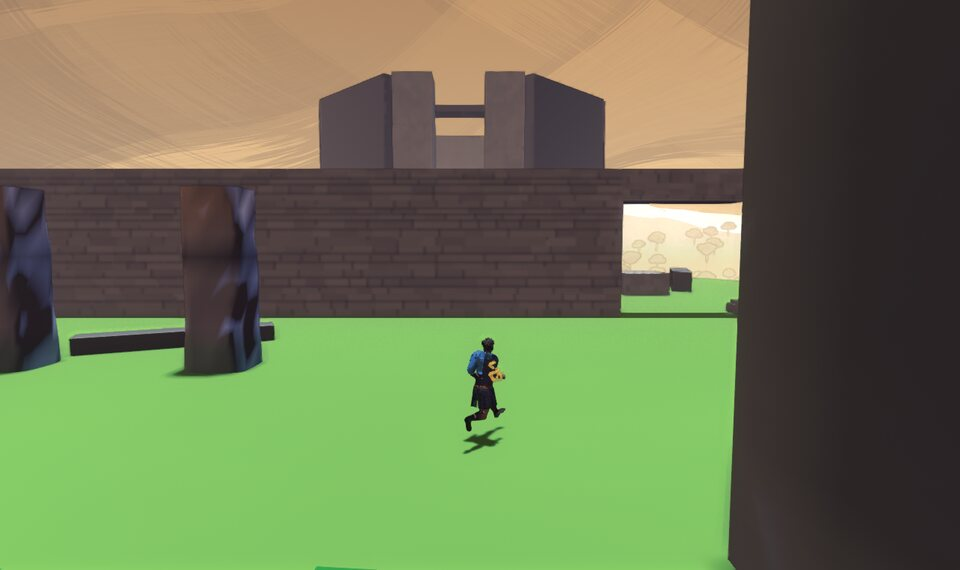
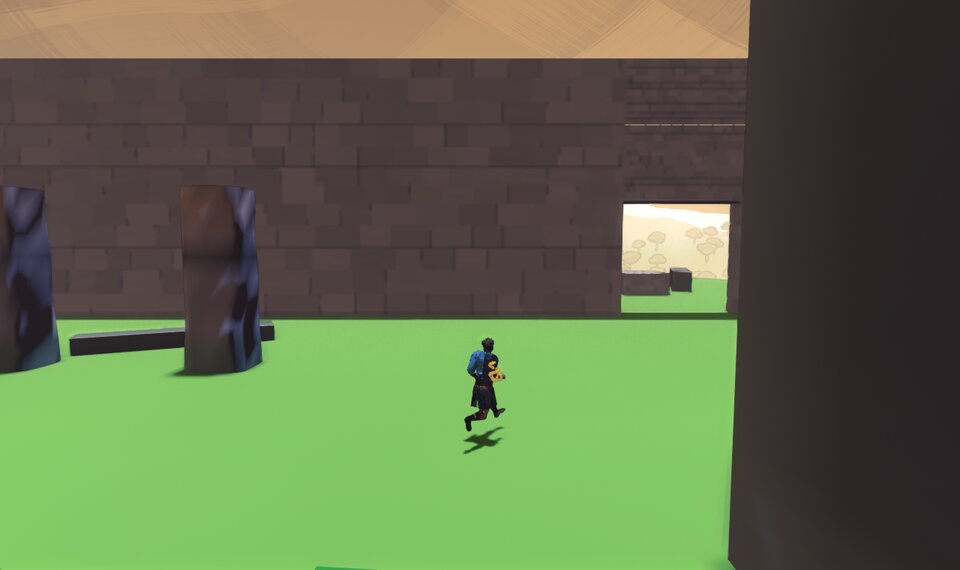
Gallery: the opening's walls as barriers, from the fighter's camera
The curtain wall, its end out over the drop, the gap, the chapel and a
chapel wall from outside, retaken with the walls raised.

Claude-Session: https://claude.ai/code/session_018Vt8Z1XS6b32f98JD7nWhk

diff --git a/docs/design/gallery/opening/README.md b/docs/design/gallery/opening/README.md
@@ -21,6 +21,7 @@ software Vulkan driver, 1280 × 760 scaled to 960 wide, the HUD hidden
 | --- | --- |
 | ![](00_overview.jpg) **From above** (placed by hand). The floating island: rock masses narrowing beneath, the cell and cut between rock (right), the yard with its curtain wall and chapel, the gap and the causeway, the keep and its climb's pillars rising from the ground below. | ![](01_cell.jpg) **The cell.** The bars torn out, the keep already in sight down the cut. |
 | ![](02_curtain.jpg) **The curtain wall** across the yard, twelve metres, from the drop to the drop: the only way past it is the gap off to the north. | ![](03_through_gap.jpg) **Through the gap**, against the island's edge: the drop to the right, the keep framed ahead. |
+| ![](02b_curtain_end.jpg) **The curtain wall's end**, at the island's southern edge: it runs on out over the drop. There is no way round. | ![](04b_chapel_wall.jpg) **A chapel wall** from outside: nine metres, nothing to catch. |
 | ![](04_chapel.jpg) **The chapel**, roofless, nine metres to its walls' tops: in at one door, out at the other, the keep hidden in between -- or round it, never over. | ![](05_causeway.jpg) **The causeway** to the keep's island, its gate open, the Warden asleep inside. |
 | ![](06_climb_foot.jpg) **The foot of the climb**, on the keep's lip: the pillars rising out of the drop. | ![](07_pillars.jpg) **On the pillars**, over the drop: miss one and you are off the island. |
 | ![](08_rampart_dive.jpg) **The rampart**, twenty-nine metres up the keep: the Warden below, the soft place on its neck. Hit it from here and it goes over. | ![](09_spiral.jpg) **The spiral inside**, partway up. |
@@ -39,6 +40,8 @@ island's top is thirty metres up.
 | 02 | `DEMO=1 SHOT_FRAME=230 SHOT_PITCH=-0.08` |
 | 03 | `DEMO=1 SHOT_FRAME=330 SHOT_PITCH=-0.08` |
 | 04 | `DEMO=1 SHOT_FRAME=560 SHOT_PITCH=-0.08` |
+| 02b | `SHOT_FRAME=5 SHOT_AT=26,-27,30 SHOT_FACE=-60 SHOT_YAW=-1.0 SHOT_PITCH=-0.05` |
+| 04b | `SHOT_FRAME=5 SHOT_AT=48,-21,30 SHOT_FACE=90 SHOT_YAW=1.57 SHOT_PITCH=0.1` |
 | 05 | `DEMO=1 SHOT_FRAME=820 SHOT_PITCH=-0.08` |
 | 06 | `SHOT_FRAME=5 SHOT_AT=94.5,-24,32 SHOT_FACE=-90 SHOT_YAW=-1.3 SHOT_PITCH=-0.2` |
 | 07 | `SHOT_FRAME=5 SHOT_AT=97.5,-33,37 SHOT_FACE=0 SHOT_YAW=0.2 SHOT_PITCH=-0.35` |
